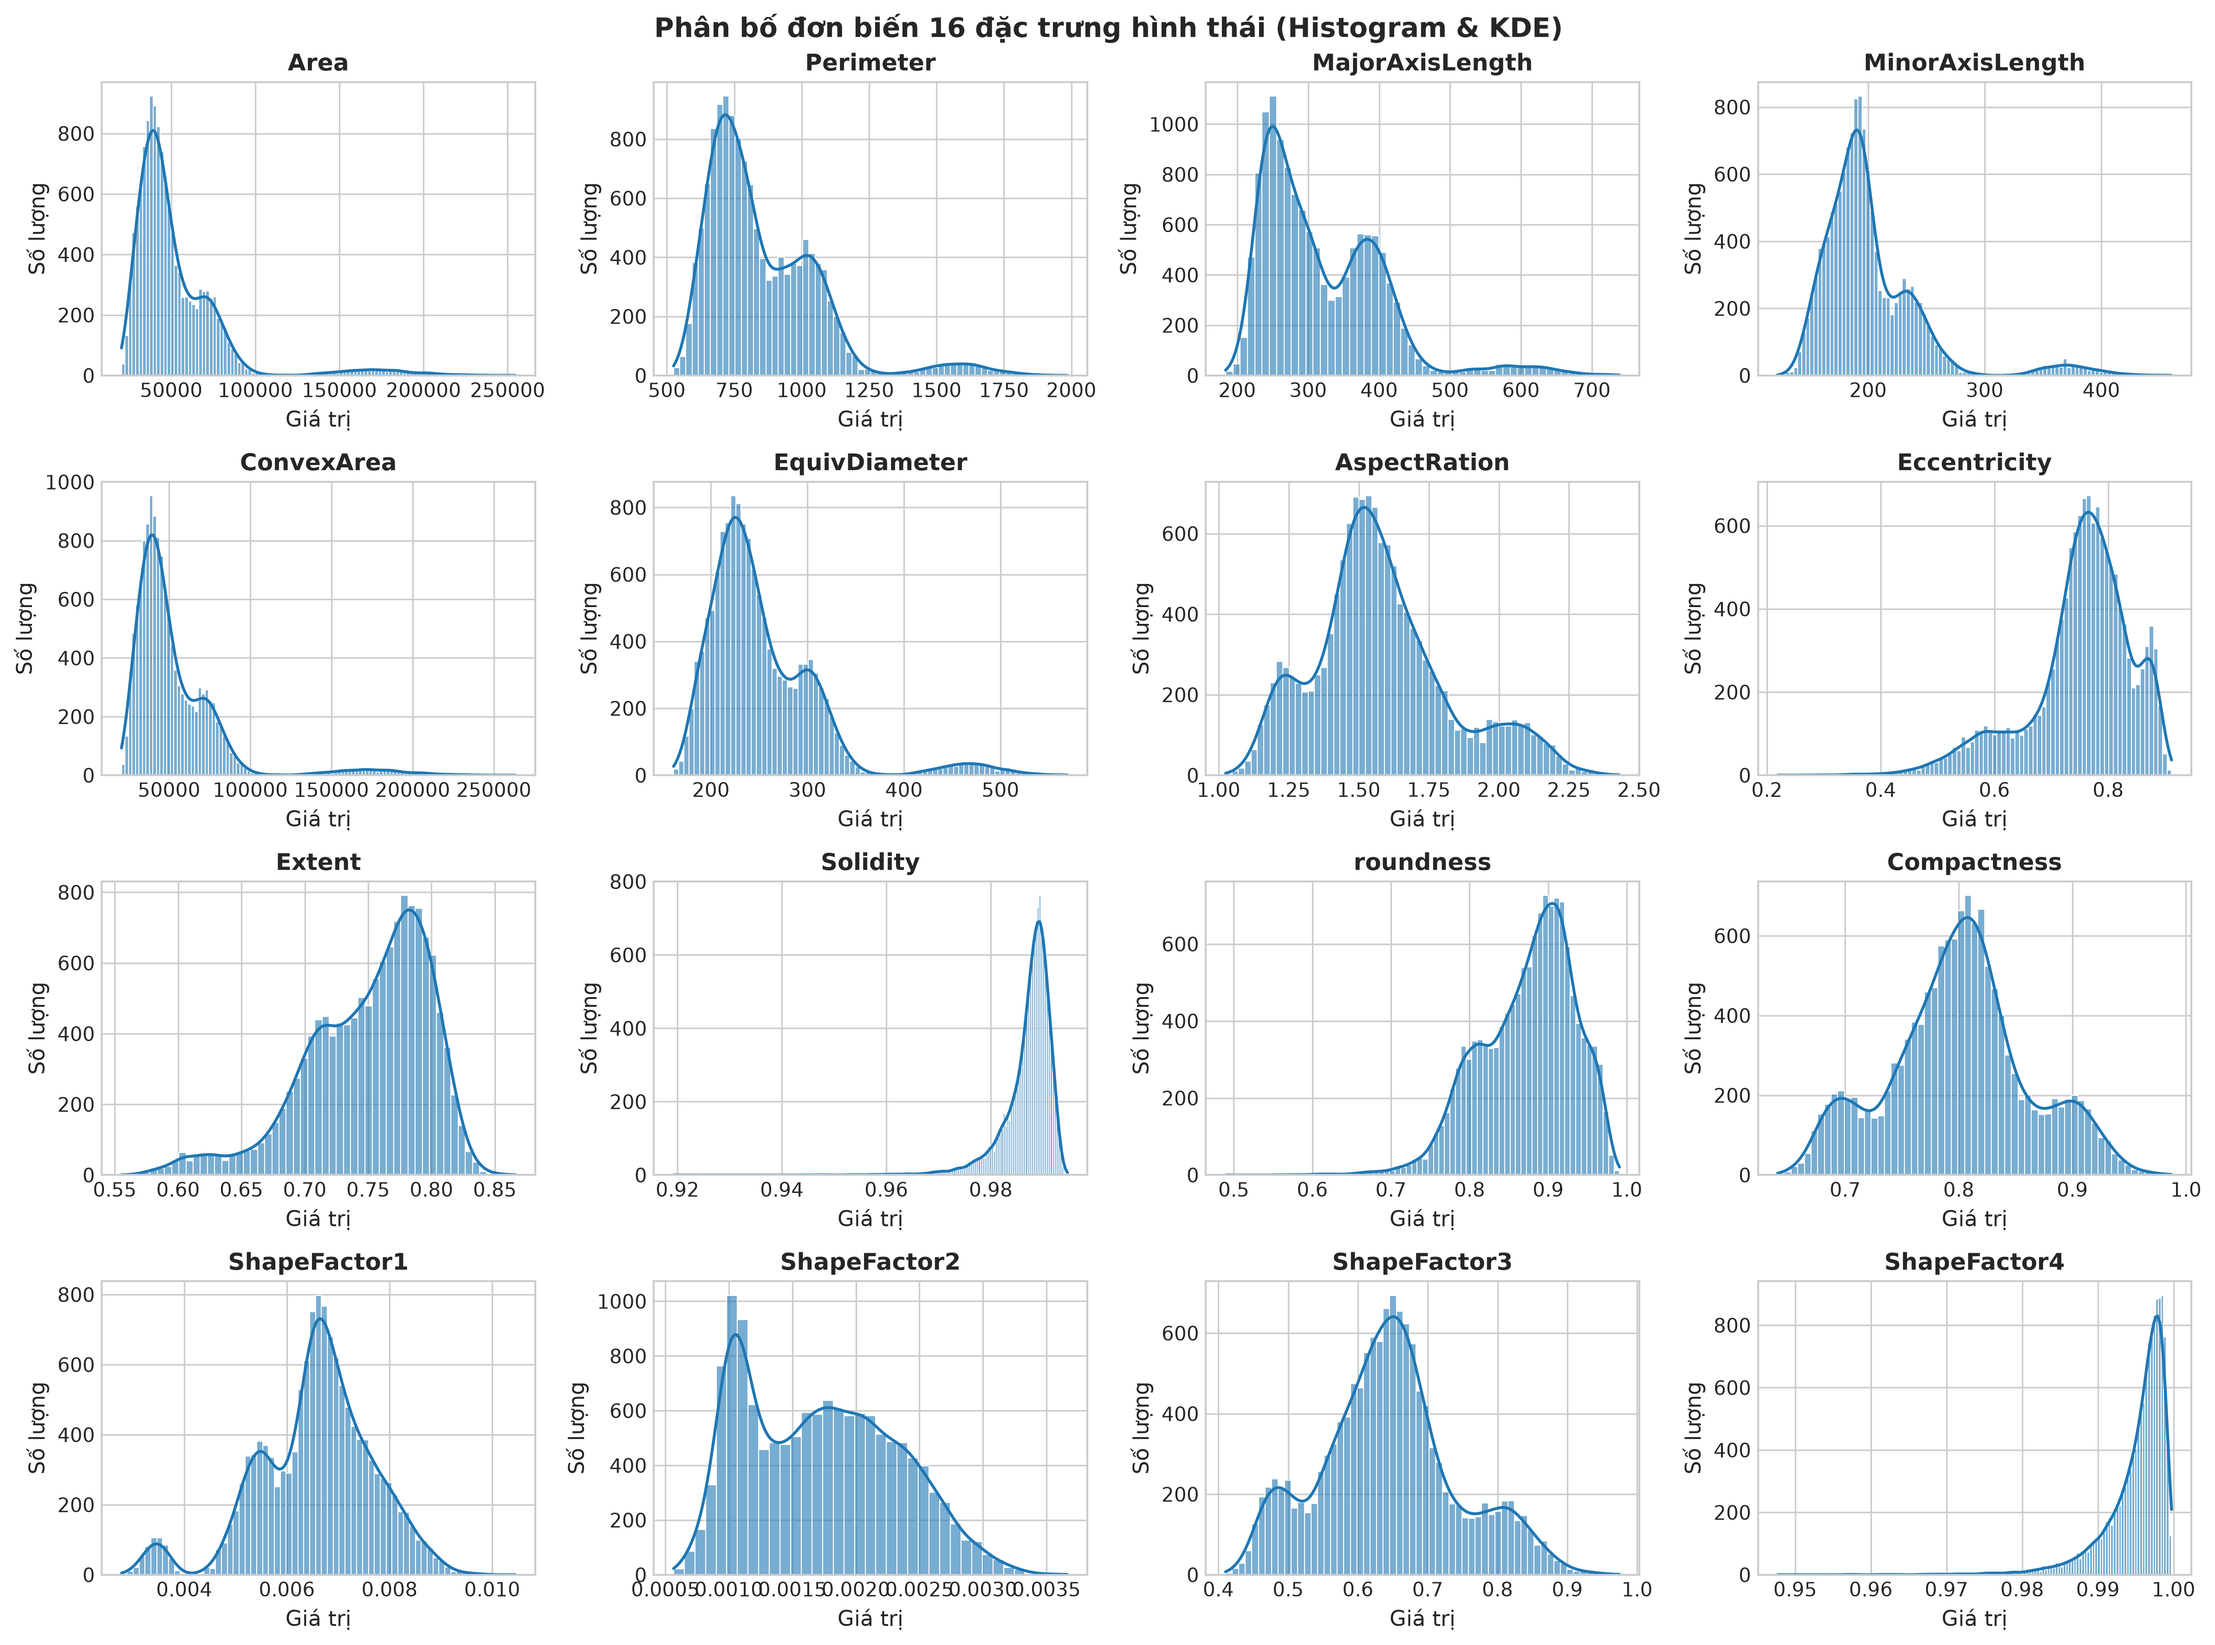
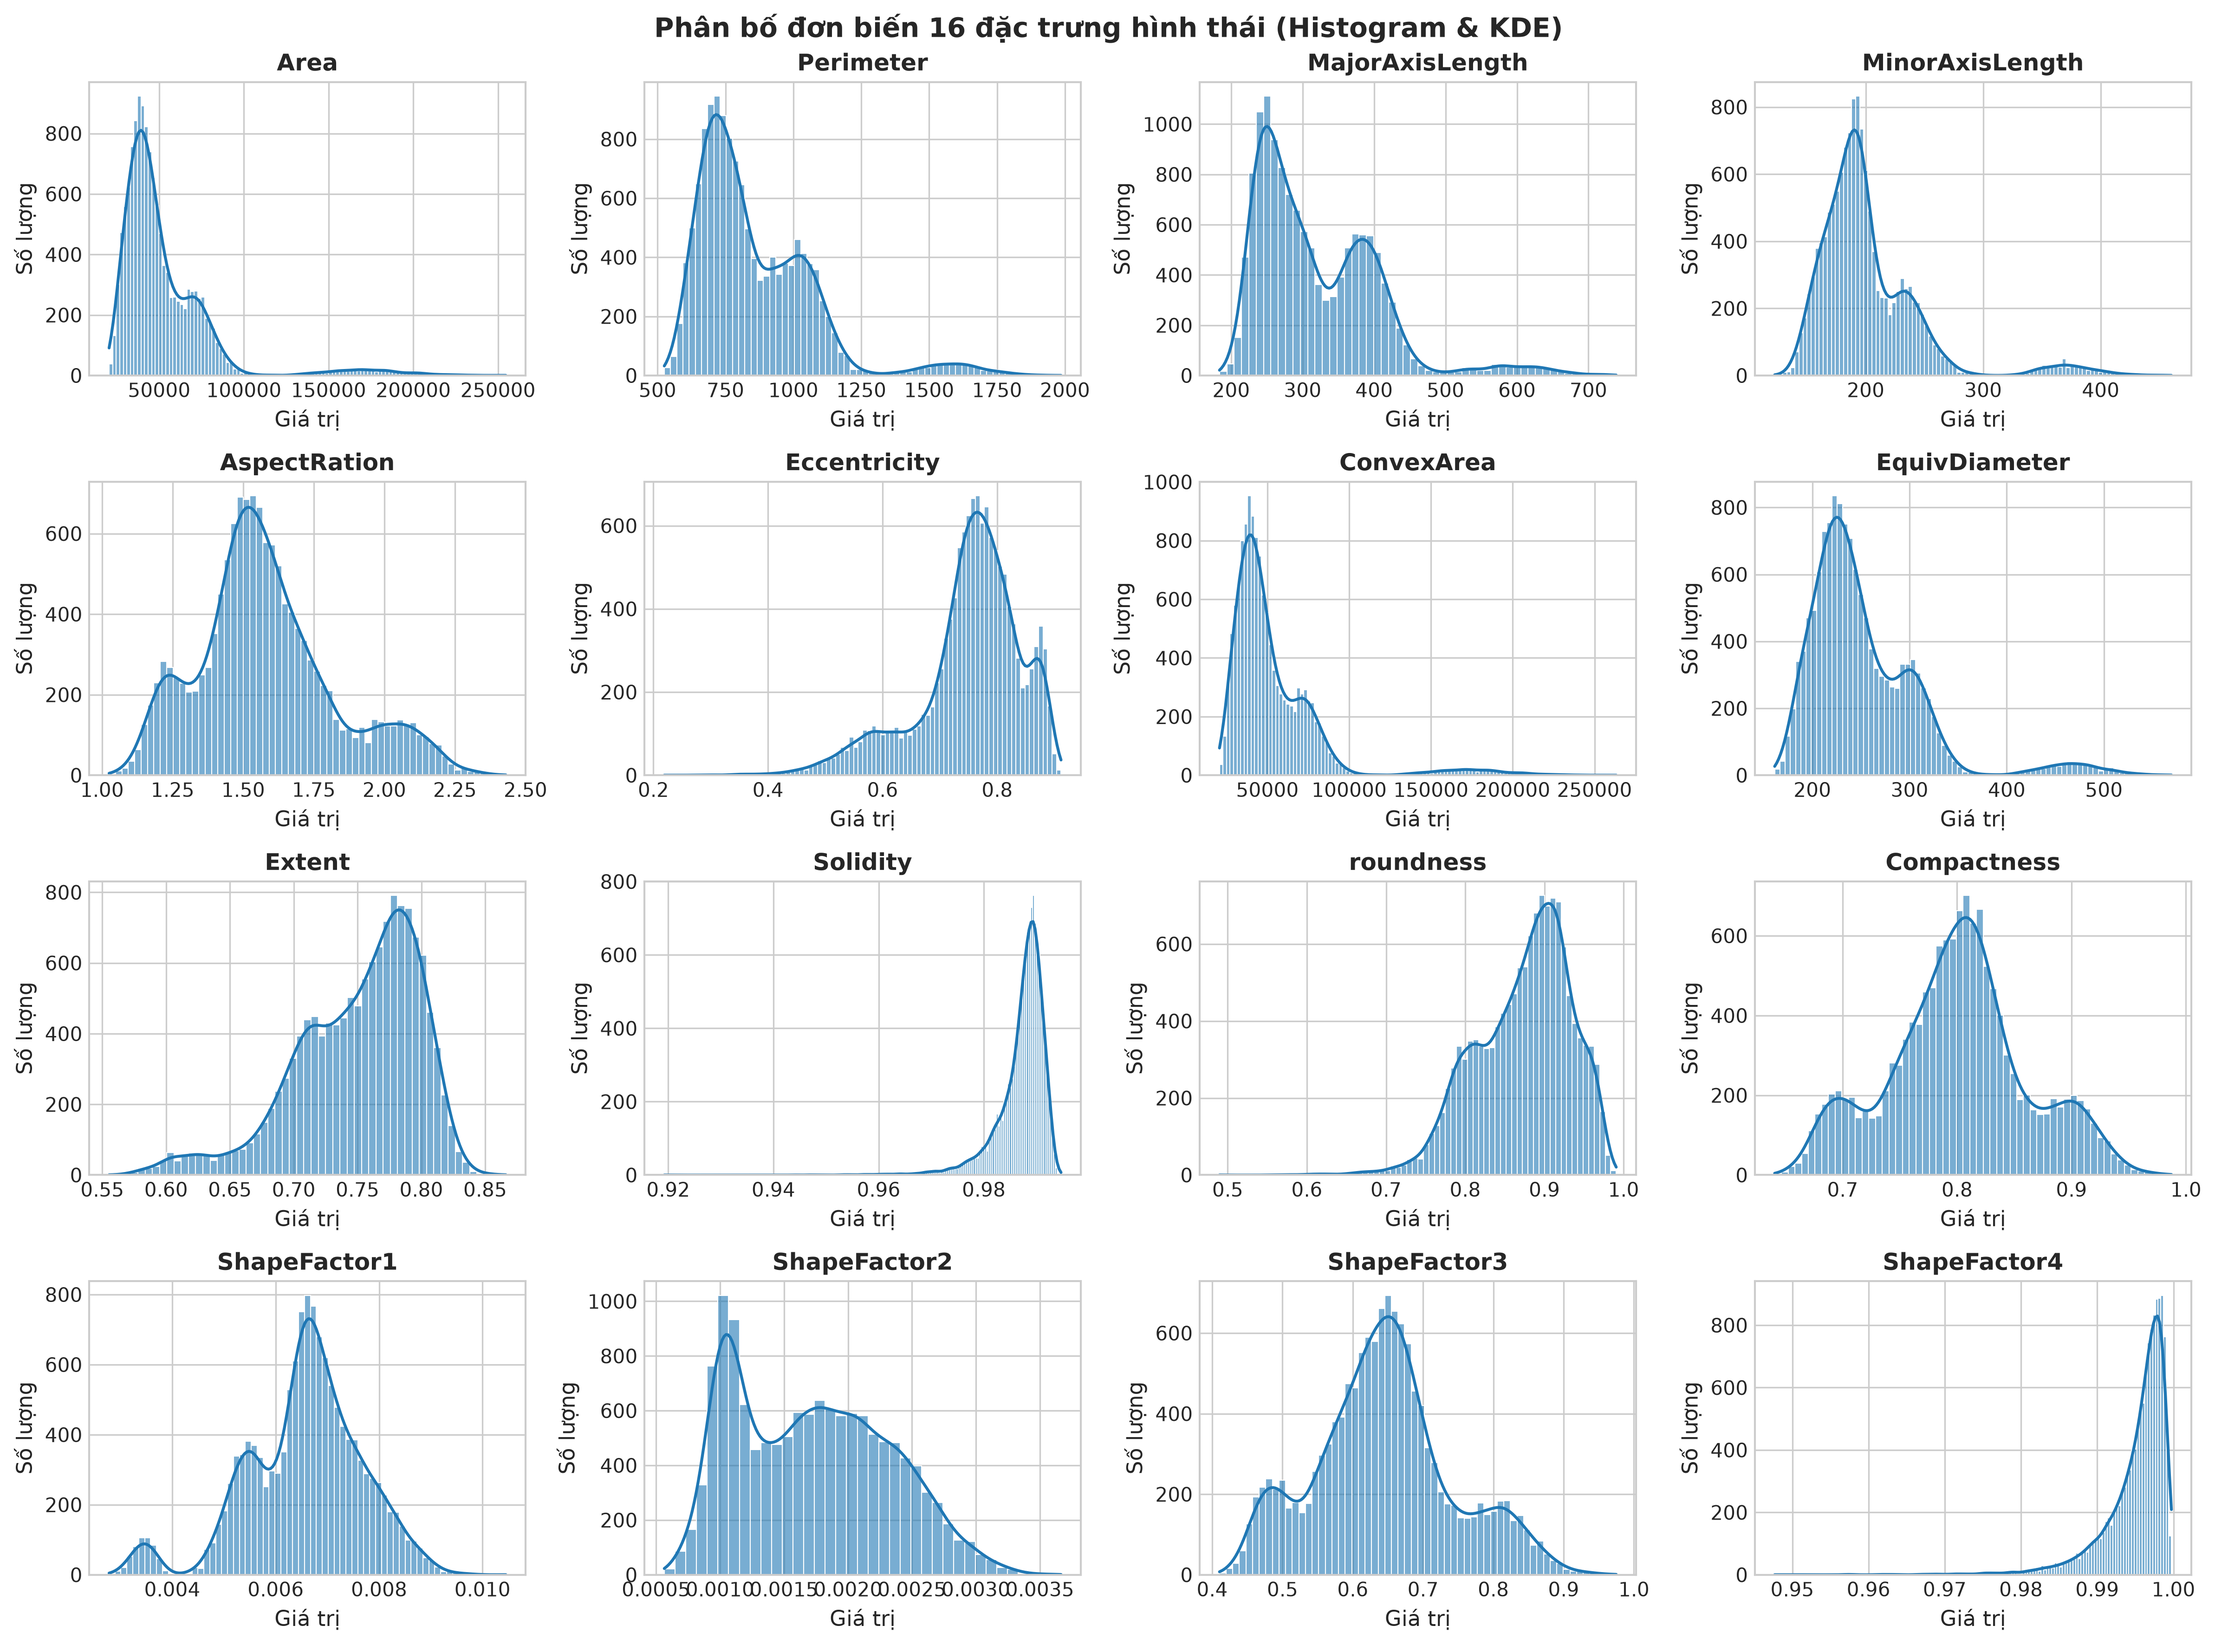
Sprint 3: Task 7
Chia dữ liệu, huấn luyện 6 tổ hợp

diff --git a/main.py b/main.py
@@ -13,6 +13,9 @@ import matplotlib.pyplot as plt
 import numpy as np
 import pandas as pd
 import seaborn as sns
+from sklearn.model_selection import train_test_split
+from sklearn.naive_bayes import GaussianNB
+from sklearn.tree import DecisionTreeClassifier
 
 # ==============================================================================
 # HẰNG SỐ CẤU HÌNH DỰ ÁN
@@ -24,21 +27,21 @@ TEST_SIZE = 0.2
 CV_FOLDS = 5
 K_RANGE = range(2, 11)
 
-# Định nghĩa 2 nhóm đặc trưng hình thái
-# Nhóm kích thước: các độ đo hình học mang đơn vị độ dài hoặc diện tích (pixel)
+# Định nghĩa 2 nhóm đặc trưng hình thái theo PRD.md và ARCHITECTURE.md
+# Nhóm kích thước (8 đặc trưng): kích thước cơ bản và các độ đo trục chính/phụ
 SIZE_FEATURES = [
     "Area",
     "Perimeter",
     "MajorAxisLength",
     "MinorAxisLength",
+    "AspectRation",
+    "Eccentricity",
     "ConvexArea",
     "EquivDiameter",
 ]
 
-# Nhóm hình dạng: các chỉ số tỷ lệ, độ tròn, độ lồi không thứ nguyên
+# Nhóm hình dạng (8 đặc trưng): các hệ số hình thái, độ lồi, độ nén, độ tròn
 SHAPE_FEATURES = [
-    "AspectRation",
-    "Eccentricity",
     "Extent",
     "Solidity",
     "roundness",
@@ -683,6 +686,183 @@ def run_task_t6(
 
 
 # ==============================================================================
+# SPRINT 3: MÔ HÌNH HÓA (MODELING) - PHÂN LOẠI (RQ1) VÀ PHÂN CỤM (RQ2)
+# ==============================================================================
+def split_dataset(
+    df: pd.DataFrame,
+    test_size: float = TEST_SIZE,
+    random_state: int = RANDOM_STATE,
+) -> tuple[pd.DataFrame, pd.DataFrame, pd.Series, pd.Series]:
+    """Chia tập dữ liệu thành Train và Test theo tỷ lệ 80/20 có stratify.
+
+    Tuyệt đối không chuẩn hóa dữ liệu trước hoặc trong quá trình chia tập.
+
+    Tham số:
+        df: DataFrame đã làm sạch sau bước tiền xử lý.
+        test_size: Tỷ lệ mẫu dành cho tập kiểm tra (mặc định 0.2).
+        random_state: Hạt giống ngẫu nhiên để tái lập kết quả (42).
+
+    Trả về:
+        Tuple (X_train, X_test, y_train, y_test).
+    """
+    print("\n" + "=" * 70)
+    print("BƯỚC 6: PHÂN CHIA DỮ LIỆU HUẤN LUYỆN VÀ KIỂM TRA (TASK T7)")
+    print("=" * 70)
+
+    X = df[ALL_FEATURES]
+    y = df[CLASS_COLUMN]
+
+    X_train, X_test, y_train, y_test = train_test_split(
+        X,
+        y,
+        test_size=test_size,
+        random_state=random_state,
+        stratify=y,
+    )
+
+    train_pct = (X_train.shape[0] / len(df)) * 100
+    test_pct = (X_test.shape[0] / len(df)) * 100
+
+    print(
+        f"- Phân chia dữ liệu theo tỷ lệ {int((1 - test_size) * 100)}/"
+        f"{int(test_size * 100)} (stratify=y, random_state={random_state}):"
+    )
+    print(
+        f"  + Tập huấn luyện (Train): {X_train.shape[0]} mẫu "
+        f"({train_pct:.2f}%), {X_train.shape[1]} đặc trưng."
+    )
+    print(
+        f"  + Tập kiểm tra   (Test) : {X_test.shape[0]} mẫu "
+        f"({test_pct:.2f}%), {X_test.shape[1]} đặc trưng."
+    )
+
+    # Kiểm tra tính toàn vẹn tỷ lệ phân bố 7 lớp trên 2 tập
+    print("\n- So sánh tỷ lệ phân bố 7 lớp giữa tập Train và Test:")
+    header = (
+        f"{'Lớp (Class)':<12} | {'Train (Số lượng)':>16} | {'Train (%)':>10} | "
+        f"{'Test (Số lượng)':>15} | {'Test (%)':>9}"
+    )
+    print("-" * len(header))
+    print(header)
+    print("-" * len(header))
+
+    train_counts = y_train.value_counts()
+    train_ratios = y_train.value_counts(normalize=True) * 100
+    test_counts = y_test.value_counts()
+    test_ratios = y_test.value_counts(normalize=True) * 100
+
+    for cls in CLASS_NAMES:
+        tr_cnt = train_counts.get(cls, 0)
+        tr_rat = train_ratios.get(cls, 0.0)
+        te_cnt = test_counts.get(cls, 0)
+        te_rat = test_ratios.get(cls, 0.0)
+        print(
+            f"{cls:<12} | {tr_cnt:>16} | {tr_rat:>9.2f}% | "
+            f"{te_cnt:>15} | {te_rat:>8.2f}%"
+        )
+    print("-" * len(header))
+    print(
+        "  -> Kết luận: Tỷ lệ phân bố 7 lớp được bảo toàn đồng nhất "
+        "giữa tập Train và Test."
+    )
+
+    return X_train, X_test, y_train, y_test
+
+
+def train_classification_models(
+    X_train: pd.DataFrame,
+    y_train: pd.Series,
+    random_state: int = RANDOM_STATE,
+) -> dict[str, dict[str, object]]:
+    """Huấn luyện 6 tổ hợp mô hình phân loại (2 thuật toán x 3 bộ đặc trưng).
+
+    Tuyệt đối không chuẩn hóa dữ liệu cho Naive Bayes và Decision Tree.
+
+    Tham số:
+        X_train: Đặc trưng tập huấn luyện.
+        y_train: Nhãn lớp tập huấn luyện.
+        random_state: Hạt giống ngẫu nhiên cho Decision Tree (42).
+
+    Trả về:
+        Dict chứa 6 mô hình đã huấn luyện kèm thông tin bộ đặc trưng.
+    """
+    print("\n" + "=" * 70)
+    print("BƯỚC 7: HUẤN LUYỆN 6 TỔ HỢP MÔ HÌNH PHÂN LOẠI (TASK T7)")
+    print("=" * 70)
+
+    # 3 bộ đặc trưng nghiên cứu
+    feature_sets = {
+        "Toàn bộ (16 đặc trưng)": ALL_FEATURES,
+        "Kích thước (8 đặc trưng)": SIZE_FEATURES,
+        "Hình dạng (8 đặc trưng)": SHAPE_FEATURES,
+    }
+
+    # 2 thuật toán theo yêu cầu PRD.md
+    algorithms = {
+        "GaussianNB": lambda: GaussianNB(),
+        "Decision Tree": lambda: DecisionTreeClassifier(
+            random_state=random_state
+        ),
+    }
+
+    trained_models = {}
+    comb_idx = 1
+    total_combs = len(algorithms) * len(feature_sets)
+
+    for algo_name, algo_fn in algorithms.items():
+        for set_name, feature_list in feature_sets.items():
+            model = algo_fn()
+            X_train_subset = X_train[feature_list]
+
+            print(
+                f"[{comb_idx}/{total_combs}] Đang huấn luyện {algo_name:<13} "
+                f"trên bộ '{set_name}' ({X_train_subset.shape[0]} mẫu, "
+                f"{len(feature_list)} đặc trưng)...",
+                end=" ",
+            )
+            model.fit(X_train_subset, y_train)
+            print("Hoàn thành!")
+
+            key = f"{algo_name} - {set_name}"
+            trained_models[key] = {
+                "model": model,
+                "algorithm": algo_name,
+                "feature_set_name": set_name,
+                "features": feature_list,
+            }
+            comb_idx += 1
+
+    print(
+        f"\n=> Đã huấn luyện thành công toàn bộ {total_combs} tổ hợp mô hình "
+        "trên tập Train (giữ nguyên tập Test cho Task T9)."
+    )
+
+    return trained_models
+
+
+def run_task_t7(
+    df: pd.DataFrame,
+) -> tuple[
+    pd.DataFrame,
+    pd.DataFrame,
+    pd.Series,
+    pd.Series,
+    dict[str, dict[str, object]],
+]:
+    """Thực thi Task T7: Phân chia 80/20 có stratify và huấn luyện 6 tổ hợp.
+
+    Tham số:
+        df: DataFrame đã làm sạch sau Bước 2.
+
+    Trả về:
+        Tuple (X_train, X_test, y_train, y_test, trained_models).
+    """
+    X_train, X_test, y_train, y_test = split_dataset(df)
+    trained_models = train_classification_models(X_train, y_train)
+    return X_train, X_test, y_train, y_test, trained_models
+
+
+# ==============================================================================
 # ĐIỂM VÀO CHÍNH CỦA CHƯƠNG TRÌNH
 # ==============================================================================
 def main() -> None:
@@ -692,7 +872,7 @@ def main() -> None:
 
     print("\n" + "#" * 70)
     print("# DỰ ÁN KHAI PHÁ DỮ LIỆU: PHÂN LOẠI ĐẬU KHÔ (DRY BEAN DATASET)")
-    print("# TRIỂN KHAI SPRINT 1 & 2: TIỀN XỬ LÝ VÀ EDA (TASKS T1 - T6)")
+    print("# TRIỂN KHAI SPRINT 1, 2, 3: TIỀN XỬ LÝ, EDA VÀ MÔ HÌNH HÓA")
     print("#" * 70)
 
     # Tự động tạo thư mục chứa ảnh đầu ra theo quy chuẩn ARCHITECTURE.md
@@ -713,16 +893,13 @@ def main() -> None:
     # Task T6: Trực quan hóa đa biến (Heatmap tương quan và Boxplot theo lớp)
     high_corr_pairs = run_task_t6(df_clean, OUTPUT_DIR)
 
+    # Task T7: Phân chia tập dữ liệu 80/20 và huấn luyện 6 tổ hợp mô hình
+    X_train, X_test, y_train, y_test, trained_models = run_task_t7(df_clean)
+
     print("\n" + "=" * 70)
-    print("HOÀN THÀNH TOÀN BỘ SPRINT 1 & 2 THÀNH CÔNG!")
-    print(f"- Đã tính toán thống kê mô tả cho {len(stats_df)} đặc trưng.")
-    print(f"- Đã phát hiện {len(high_corr_pairs)} cặp đặc trưng tương quan |r| > 0.9.")
-    print("- Đã xuất đủ 5 biểu đồ EDA theo chuẩn DESIGN.md (DPI 300):")
-    print("  + 01_phan_bo_lop.png")
-    print("  + 02_histogram_kde.png")
-    print("  + 03_boxplot.png")
-    print("  + 04_heatmap_tuong_quan.png")
-    print("  + 05_boxplot_theo_lop.png")
+    print("HOÀN THÀNH TASK T7 (SPRINT 3: MÔ HÌNH HÓA) THÀNH CÔNG!")
+    print(f"- Đã phân chia tập dữ liệu: {len(X_train)} Train, {len(X_test)} Test.")
+    print(f"- Đã huấn luyện thành công {len(trained_models)} tổ hợp mô hình.")
     print("=" * 70 + "\n")
 
 

diff --git a/Planing/PROGRESS.md b/Planing/PROGRESS.md
@@ -3,8 +3,8 @@
 ## 1. Tổng quan
 | Hạng mục | Giá trị |
 |---|---|
-| Giai đoạn hiện tại | Hoàn thành Sprint 2, chuẩn bị Sprint 3 (Mô hình hóa) |
-| Tiến độ | 6/16 task |
+| Giai đoạn hiện tại | Đang thực hiện Sprint 3 (Mô hình hóa) |
+| Tiến độ | 7/16 task |
 | Cập nhật lần cuối | 2026-11-17 |
 
 ## 2. Tình trạng tài liệu
@@ -28,7 +28,7 @@ Ký hiệu: ⬜ Chưa làm, 🔄 Đang làm, ✅ Xong, ❌ Bị chặn.
 | 2 | T4 | Thống kê mô tả, biểu đồ 01 | ✅ | 2026-11-17 | Bảng thống kê mô tả 16 đặc trưng và xuất ảnh 01_phan_bo_lop.png (DPI 300) |
 | 2 | T5 | Biểu đồ đơn biến 02, 03 | ✅ | 2026-11-17 | Xuất lưới 4x4 biểu đồ 02 (Histogram+KDE) và 03 (Boxplot) cho 16 đặc trưng (DPI 300) |
 | 2 | T6 | Biểu đồ đa biến 04, 05 | ✅ | 2026-11-17 | Heatmap tương quan (21 cặp \|r\| > 0.9), boxplot 3 đặc trưng theo lớp, nhận xét EDA |
-| 3 | T7 | Chia dữ liệu, huấn luyện 6 tổ hợp | ⬜ | | |
+| 3 | T7 | Chia dữ liệu, huấn luyện 6 tổ hợp | ✅ | 2026-11-17 | Chia 80/20 stratify (10.834 Train, 2.709 Test), huấn luyện 6 tổ hợp mô hình |
 | 3 | T8 | 5-fold CV, chọn mô hình | ⬜ | | |
 | 3 | T9 | Đánh giá, biểu đồ 06-08 | ⬜ | | |
 | 3 | T10 | Kết luận RQ1 | ⬜ | | |
@@ -61,5 +61,5 @@ Ký hiệu: ⬜ Chưa làm, 🔄 Đang làm, ✅ Xong, ❌ Bị chặn.
 | 2026-11-17 | Phân chia 16 đặc trưng thành 6 đặc trưng kích thước (đơn vị đo) và 10 đặc trưng hình dạng (tỷ lệ không thứ nguyên) |
 
 ## 7. Việc cần làm tiếp theo
-1. Bắt đầu **Sprint 3: Mô hình hóa (Phân loại RQ1 & Phân cụm RQ2)**.
-2. Triển khai **Task T7**: Chia dữ liệu 80/20 có `stratify`, huấn luyện GaussianNB và Decision Tree trên 3 bộ đặc trưng (6 tổ hợp).
+1. Triển khai **Task T8**: Đánh giá 5-fold stratified cross-validation trên tập Train cho 6 tổ hợp, chọn mô hình tốt nhất theo F1-macro trung bình.
+2. Triển khai **Task T9**: Đánh giá trên tập kiểm tra, vẽ biểu đồ 06 (Confusion Matrix), 07 (so sánh mô hình), 08 (feature_importances_).
